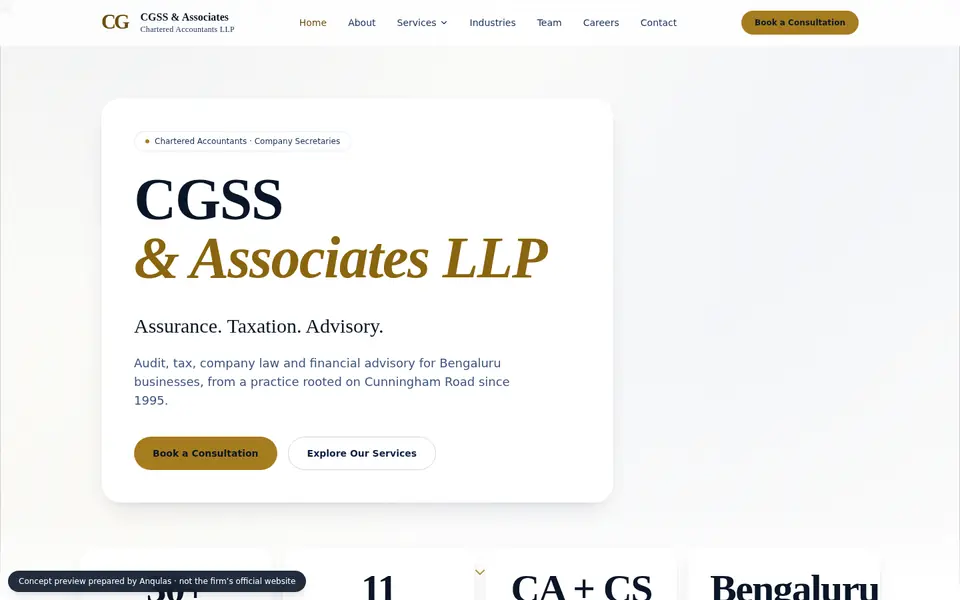
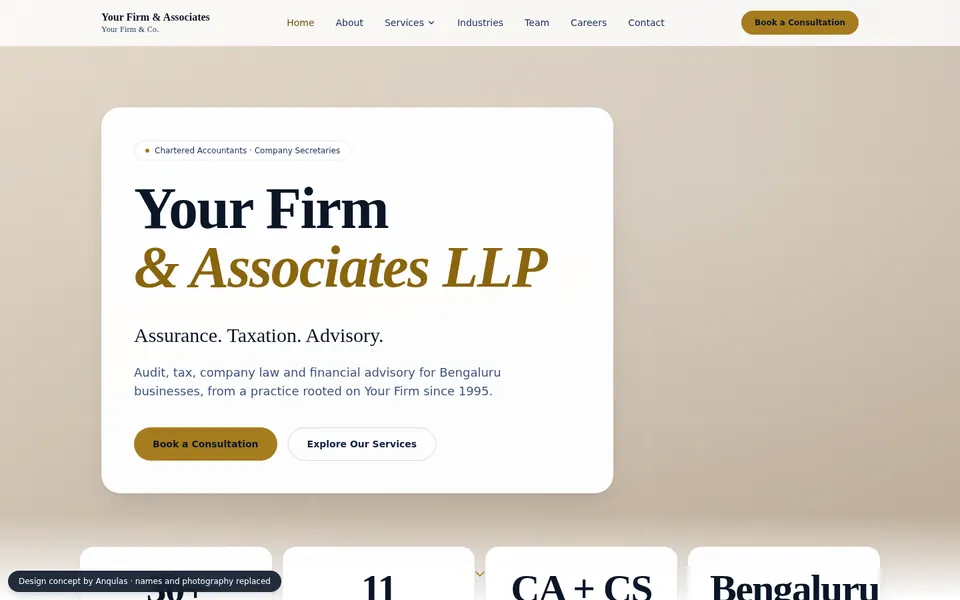
Homepage: anonymise the work and replace black with olive and sand
Work screenshots are re-rendered from the concept builds with every
business name, principal name, registration number and logo replaced
('Your Studio', 'Your Firm & Co.') and every photograph swapped for a
tonal fill, so the page shows our design without anyone's name or
photography. The index loses its arrows and the 'View' cursor, so
nothing reads as a link to a private concept, and the note says the
studies are anonymised and unaffiliated.

The black bands become deep olive (hero, Business OS) and warm sand
(services, contact and footer).

Claude-Session: https://claude.ai/code/session_01VmtMMQpYWdS14UnoZi6gCH

diff --git a/index.html b/index.html
@@ -12,7 +12,7 @@
 <meta property="og:description" content="Websites for architecture and interior design studios and professional firms. 24 built across ten countries.">
 <meta property="og:image" content="https://anqulas.com/assets/work/studio-deia.webp">
 <meta name="twitter:card" content="summary_large_image">
-<meta name="theme-color" content="#12110F">
+<meta name="theme-color" content="#1E2923">
 <link rel="icon" href="/assets/favicon-64.png" type="image/png">
 <link rel="apple-touch-icon" href="/assets/apple-touch-icon.png">
 <link rel="preconnect" href="https://fonts.googleapis.com">
@@ -20,14 +20,14 @@
 <link rel="stylesheet" href="https://fonts.googleapis.com/css2?family=Cormorant+Garamond:ital,wght@0,300;0,400;0,500;1,300;1,400&family=Manrope:wght@400;500;600&family=DM+Mono:wght@400&display=swap" media="print" onload="this.media='all';this.onload=null">
 <noscript><link rel="stylesheet" href="https://fonts.googleapis.com/css2?family=Cormorant+Garamond:ital,wght@0,300;0,400;0,500;1,300;1,400&family=Manrope:wght@400;500;600&family=DM+Mono:wght@400&display=swap"></noscript>
 <style>
-  /* Two grounds, one accent. Warm charcoal and bone carry everything; the
-     accent is bronze, light on dark and deep on paper (5.6:1 on bone). */
+  /* Grounds: bone, warm sand, and a deep olive for the two dark bands.
+     The accent is bronze, light on olive and deep on the light grounds. */
   :root{
-    --ink:#12110F; --ink-2:#1A1916; --ink-3:#25231F;
+    --ink:#1E2923; --ink-2:#233029; --ink-3:#2D3B33;
     --paper:#EEEAE2; --paper-2:#E3DED3; --white:#FBFAF7;
     --t1:#0D0D0C; --t2:#4A4843; --t3:#77736B;
-    --d1:#F2EFE8; --d2:#B4B0A6; --d3:#85817A;
-    --line:rgba(18,17,15,.12); --dline:rgba(242,239,232,.14);
+    --d1:#F1EDE4; --d2:#BDC1B6; --d3:#97A096;
+    --line:rgba(30,41,35,.12); --dline:rgba(242,239,232,.14);
     --aqua:#CDAE7E; --teal:#7A5A2E;
     --serif:"Cormorant Garamond","Cormorant",Garamond,"Times New Roman",serif;
     --sans:"Manrope",-apple-system,BlinkMacSystemFont,"Segoe UI",Helvetica,Arial,sans-serif;
@@ -68,7 +68,7 @@
   .nav{position:fixed;left:0;right:0;top:0;z-index:100;display:flex;align-items:center;gap:24px;padding:22px var(--gut);color:var(--d1);transition:transform .6s var(--ease),color .4s}
   .nav.hide{transform:translateY(-110%)}
   .nav.on-paper{color:var(--t1)}
-  .nav::before{content:"";position:absolute;inset:0;z-index:-1;opacity:0;transition:opacity .4s;background:linear-gradient(180deg,rgba(18,17,15,.55),transparent)}
+  .nav::before{content:"";position:absolute;inset:0;z-index:-1;opacity:0;transition:opacity .4s;background:linear-gradient(180deg,rgba(30,41,35,.55),transparent)}
   .nav.scrolled:not(.on-paper)::before{opacity:1}
   .brand{display:flex;align-items:center;gap:12px;font-family:var(--sans);font-weight:600;font-size:17px;letter-spacing:-.02em}
   .brand img{width:30px;height:30px;object-fit:contain;transition:transform .8s var(--ease)}
@@ -99,9 +99,9 @@
   .col img{border-radius:8px;width:100%;aspect-ratio:16/10;object-fit:cover;object-position:top;filter:saturate(.9)}
   @keyframes up{to{transform:translateY(-50%)}}
   .hero::before{content:"";position:absolute;inset:0;z-index:1;background:
-    linear-gradient(90deg,var(--ink) 0%,var(--ink) 30%,rgba(18,17,15,.86) 46%,rgba(18,17,15,.25) 75%,rgba(18,17,15,.45) 100%),
-    linear-gradient(0deg,var(--ink) 0%,rgba(18,17,15,0) 38%)}
-  @media(max-width:900px){.cols{inset:-10% -40% 30% -20%;opacity:.5}.hero::before{background:linear-gradient(0deg,var(--ink) 0%,var(--ink) 40%,rgba(18,17,15,.55) 100%)}}
+    linear-gradient(90deg,var(--ink) 0%,var(--ink) 30%,rgba(30,41,35,.86) 46%,rgba(30,41,35,.25) 75%,rgba(30,41,35,.45) 100%),
+    linear-gradient(0deg,var(--ink) 0%,rgba(30,41,35,0) 38%)}
+  @media(max-width:900px){.cols{inset:-10% -40% 30% -20%;opacity:.5}.hero::before{background:linear-gradient(0deg,var(--ink) 0%,var(--ink) 40%,rgba(30,41,35,.55) 100%)}}
   .hero-in{position:relative;z-index:2}
   .hero h1{font-family:var(--serif);font-size:clamp(64px,11.5vw,188px);line-height:.86;letter-spacing:-.035em;max-width:11ch}
   .hero h1 .it{color:var(--aqua)}
@@ -125,7 +125,7 @@
   .statement{padding:clamp(110px,16vw,220px) 0}
   .statement .label{color:var(--t3)}
   .statement p.big{margin-top:36px;font-family:var(--serif);font-size:clamp(34px,4.6vw,72px);line-height:1.06;letter-spacing:-.02em;max-width:20ch}
-  .statement .big .wd{color:rgba(18,17,15,.16);transition:color .5s}
+  .statement .big .wd{color:rgba(30,41,35,.16);transition:color .5s}
   .statement .big .wd.lit{color:var(--t1)}
   .statement .big .it.wd.lit{color:var(--teal)}
   .stmt-grid{display:grid;grid-template-columns:1fr 2.2fr;gap:40px}
@@ -160,7 +160,7 @@
   /* ── index: every site, with a preview that follows the cursor ── */
   .index{margin-top:clamp(80px,10vw,140px)}
   .index ol{list-style:none;margin:28px 0 0;padding:0;border-top:1px solid var(--line)}
-  .row{position:relative;display:grid;grid-template-columns:70px 1.6fr 1fr 1fr 32px;gap:20px;align-items:center;padding:24px 0;border-bottom:1px solid var(--line);transition:color .3s,padding .5s var(--ease)}
+  .row{position:relative;display:grid;grid-template-columns:70px 1.6fr 1fr 1fr;gap:20px;align-items:center;padding:24px 0;border-bottom:1px solid var(--line);transition:color .3s,padding .5s var(--ease)}
   .row .label{color:var(--t3)}
   .row .nm{font-family:var(--serif);font-size:clamp(26px,2.6vw,40px);line-height:1;letter-spacing:-.02em}
   .row .sm{color:var(--t2);font-size:15px}
@@ -387,6 +387,19 @@
   /* Lining figures: Cormorant defaults to old-style numerals. */
   .nums b,.tier .amt,.row .label,.label{font-variant-numeric:lining-nums tabular-nums;font-feature-settings:"lnum" 1,"tnum" 1}
   body{letter-spacing:0}
+  /* Sand: a warm light ground. It re-points the dark-ground tokens, so the
+     same components read dark-on-sand without restyling each one. */
+  .sand{background:linear-gradient(180deg,#E7DECF 0%,#DFD3C0 100%);color:#1E2923;
+    --d1:#1E2923; --d2:#4B4A40; --d3:#5F5A4D; --dline:rgba(30,41,35,.16); --aqua:#7A5A2E}
+  .sand .btn-light{background:#1E2923;color:#F1EDE4}
+  .sand .btn-light:hover{background:#7A5A2E;color:#F7F3EC}
+  .sand .svc-side .pill{color:#1E2923}
+  .sand .svc-side .pill:hover{background:#1E2923;color:#F1EDE4}
+  .sand details[open] .plus{background:#1E2923;color:#F1EDE4}
+  .sand .fld input::placeholder,.sand .fld textarea::placeholder{color:#7E7768}
+  .sand .msg.ok{background:#DCEBDD;color:#24452B}
+  .sand .msg.warn{background:#F3E2C3;color:#5C3F10}
+  .sand :focus-visible{outline-color:#7A5A2E}
 </style>
 </head>
 <body>
@@ -452,34 +465,34 @@
       <span class="label">(02) 2026 · 24 concept sites</span>
     </div>
     <div class="feature">
-      <figure class="f f1" data-cursor="view"><div class="frame"><img class="par" src="/assets/work/studio-deia.webp" width="960" height="600" loading="lazy" alt="Concept website for an architecture and interior design studio in Mumbai"></div><figcaption><span class="label">01</span><b>Architecture + interiors</b><span>Mumbai</span></figcaption></figure>
-      <figure class="f f2" data-cursor="view"><div class="frame"><img class="par" src="/assets/work/altu.webp" width="960" height="600" loading="lazy" alt="Concept website for an architecture and scenography studio in Antwerp"></div><figcaption><span class="label">02</span><b>Scenography</b><span>Antwerp</span></figcaption></figure>
-      <figure class="f f3" data-cursor="view"><div class="frame"><img class="par" src="/assets/work/paul-j-davies.webp" width="960" height="600" loading="lazy" alt="Concept website for a lighting design and control specialist in Dubai"></div><figcaption><span class="label">03</span><b>Lighting design</b><span>Dubai</span></figcaption></figure>
-      <figure class="f f4" data-cursor="view"><div class="frame"><img class="par" src="/assets/work/archipoint.webp" width="960" height="600" loading="lazy" alt="Concept website for an architecture and urban design practice in Surat"></div><figcaption><span class="label">04</span><b>Architecture &amp; urban design</b><span>Surat</span></figcaption></figure>
+      <figure class="f f1"><div class="frame"><img class="par" src="/assets/work/studio-deia.webp" width="960" height="600" loading="lazy" alt="Concept website for an architecture and interior design studio in Mumbai"></div><figcaption><span class="label">01</span><b>Architecture + interiors</b><span>Mumbai</span></figcaption></figure>
+      <figure class="f f2"><div class="frame"><img class="par" src="/assets/work/altu.webp" width="960" height="600" loading="lazy" alt="Concept website for an architecture and scenography studio in Antwerp"></div><figcaption><span class="label">02</span><b>Scenography</b><span>Antwerp</span></figcaption></figure>
+      <figure class="f f3"><div class="frame"><img class="par" src="/assets/work/paul-j-davies.webp" width="960" height="600" loading="lazy" alt="Concept website for a lighting design and control specialist in Dubai"></div><figcaption><span class="label">03</span><b>Lighting design</b><span>Dubai</span></figcaption></figure>
+      <figure class="f f4"><div class="frame"><img class="par" src="/assets/work/archipoint.webp" width="960" height="600" loading="lazy" alt="Concept website for an architecture and urban design practice in Surat"></div><figcaption><span class="label">04</span><b>Architecture &amp; urban design</b><span>Surat</span></figcaption></figure>
     </div>
 
     <div class="index">
       <div class="sec-head" style="padding-bottom:18px"><span class="label">Index</span><span class="label">Discipline · City</span></div>
       <ol id="index">
-        <li class="row" data-img="/assets/work/studio-deia.webp"><span class="label">01</span><span class="nm">Architecture + interiors</span><span class="sm">Residential &amp; workplace</span><span class="sm">Mumbai</span><span class="arw" aria-hidden="true">→</span><span class="thumb"><img src="/assets/work/studio-deia.webp" alt="" width="960" height="600" loading="lazy"></span></li>
-        <li class="row" data-img="/assets/work/altu.webp"><span class="label">02</span><span class="nm">Architecture &amp; scenography</span><span class="sm">Exhibitions &amp; interiors</span><span class="sm">Antwerp</span><span class="arw" aria-hidden="true">→</span><span class="thumb"><img src="/assets/work/altu.webp" alt="" width="960" height="600" loading="lazy"></span></li>
-        <li class="row" data-img="/assets/work/paul-j-davies.webp"><span class="label">03</span><span class="nm">Lighting design &amp; control</span><span class="sm">Architectural lighting</span><span class="sm">Dubai</span><span class="arw" aria-hidden="true">→</span><span class="thumb"><img src="/assets/work/paul-j-davies.webp" alt="" width="960" height="600" loading="lazy"></span></li>
-        <li class="row" data-img="/assets/work/archipoint.webp"><span class="label">04</span><span class="nm">Architecture &amp; urban design</span><span class="sm">Since 1995</span><span class="sm">Surat</span><span class="arw" aria-hidden="true">→</span><span class="thumb"><img src="/assets/work/archipoint.webp" alt="" width="960" height="600" loading="lazy"></span></li>
-        <li class="row" data-img="/assets/work/nsad-studio.webp"><span class="label">05</span><span class="nm">Architecture + interiors</span><span class="sm">Avant-garde residential</span><span class="sm">Ahmedabad</span><span class="arw" aria-hidden="true">→</span><span class="thumb"><img src="/assets/work/nsad-studio.webp" alt="" width="960" height="600" loading="lazy"></span></li>
-        <li class="row" data-img="/assets/work/kreativa.webp"><span class="label">06</span><span class="nm">Interiors &amp; bespoke furniture</span><span class="sm">Bilingual, PT/EN</span><span class="sm">Madeira</span><span class="arw" aria-hidden="true">→</span><span class="thumb"><img src="/assets/work/kreativa.webp" alt="" width="960" height="600" loading="lazy"></span></li>
-        <li class="row" data-img="/assets/work/cs-interiors.webp"><span class="label">07</span><span class="nm">Fit-out, design &amp; build</span><span class="sm">Contractor</span><span class="sm">Dubai</span><span class="arw" aria-hidden="true">→</span><span class="thumb"><img src="/assets/work/cs-interiors.webp" alt="" width="960" height="600" loading="lazy"></span></li>
-        <li class="row" data-img="/assets/work/ozt-studio.webp"><span class="label">08</span><span class="nm">Architecture &amp; interiors</span><span class="sm">Two cities</span><span class="sm">Surat &amp; Mumbai</span><span class="arw" aria-hidden="true">→</span><span class="thumb"><img src="/assets/work/ozt-studio.webp" alt="" width="960" height="600" loading="lazy"></span></li>
-        <li class="row" data-img="/assets/work/nova-home-design.webp"><span class="label">09</span><span class="nm">Home staging &amp; rentals</span><span class="sm">Furnished homes</span><span class="sm">Dubai</span><span class="arw" aria-hidden="true">→</span><span class="thumb"><img src="/assets/work/nova-home-design.webp" alt="" width="960" height="600" loading="lazy"></span></li>
-        <li class="row" data-img="/assets/work/ashit.webp"><span class="label">10</span><span class="nm">Chartered accountants</span><span class="sm">Audit &amp; tax litigation</span><span class="sm">Ahmedabad</span><span class="arw" aria-hidden="true">→</span><span class="thumb"><img src="/assets/work/ashit.webp" alt="" width="960" height="600" loading="lazy"></span></li>
-        <li class="row" data-img="/assets/work/dhrumil.webp"><span class="label">11</span><span class="nm">Chartered accountants</span><span class="sm">Market &amp; IT audits</span><span class="sm">Ahmedabad</span><span class="arw" aria-hidden="true">→</span><span class="thumb"><img src="/assets/work/dhrumil.webp" alt="" width="960" height="600" loading="lazy"></span></li>
-        <li class="row" data-img="/assets/work/cgss.webp"><span class="label">12</span><span class="nm">Chartered accountants</span><span class="sm">Audit, tax &amp; advisory</span><span class="sm">Bengaluru</span><span class="arw" aria-hidden="true">→</span><span class="thumb"><img src="/assets/work/cgss.webp" alt="" width="960" height="600" loading="lazy"></span></li>
+        <li class="row" data-img="/assets/work/studio-deia.webp"><span class="label">01</span><span class="nm">Architecture + interiors</span><span class="sm">Residential &amp; workplace</span><span class="sm">Mumbai</span><span class="thumb"><img src="/assets/work/studio-deia.webp" alt="" width="960" height="600" loading="lazy"></span></li>
+        <li class="row" data-img="/assets/work/altu.webp"><span class="label">02</span><span class="nm">Architecture &amp; scenography</span><span class="sm">Exhibitions &amp; interiors</span><span class="sm">Antwerp</span><span class="thumb"><img src="/assets/work/altu.webp" alt="" width="960" height="600" loading="lazy"></span></li>
+        <li class="row" data-img="/assets/work/paul-j-davies.webp"><span class="label">03</span><span class="nm">Lighting design &amp; control</span><span class="sm">Architectural lighting</span><span class="sm">Dubai</span><span class="thumb"><img src="/assets/work/paul-j-davies.webp" alt="" width="960" height="600" loading="lazy"></span></li>
+        <li class="row" data-img="/assets/work/archipoint.webp"><span class="label">04</span><span class="nm">Architecture &amp; urban design</span><span class="sm">Practice &amp; planning</span><span class="sm">Surat</span><span class="thumb"><img src="/assets/work/archipoint.webp" alt="" width="960" height="600" loading="lazy"></span></li>
+        <li class="row" data-img="/assets/work/nsad-studio.webp"><span class="label">05</span><span class="nm">Architecture + interiors</span><span class="sm">Avant-garde residential</span><span class="sm">Ahmedabad</span><span class="thumb"><img src="/assets/work/nsad-studio.webp" alt="" width="960" height="600" loading="lazy"></span></li>
+        <li class="row" data-img="/assets/work/kreativa.webp"><span class="label">06</span><span class="nm">Interiors &amp; bespoke furniture</span><span class="sm">Bilingual, PT/EN</span><span class="sm">Madeira</span><span class="thumb"><img src="/assets/work/kreativa.webp" alt="" width="960" height="600" loading="lazy"></span></li>
+        <li class="row" data-img="/assets/work/cs-interiors.webp"><span class="label">07</span><span class="nm">Fit-out, design &amp; build</span><span class="sm">Contractor</span><span class="sm">Dubai</span><span class="thumb"><img src="/assets/work/cs-interiors.webp" alt="" width="960" height="600" loading="lazy"></span></li>
+        <li class="row" data-img="/assets/work/ozt-studio.webp"><span class="label">08</span><span class="nm">Architecture &amp; interiors</span><span class="sm">Two cities</span><span class="sm">Surat &amp; Mumbai</span><span class="thumb"><img src="/assets/work/ozt-studio.webp" alt="" width="960" height="600" loading="lazy"></span></li>
+        <li class="row" data-img="/assets/work/nova-home-design.webp"><span class="label">09</span><span class="nm">Home staging &amp; rentals</span><span class="sm">Furnished homes</span><span class="sm">Dubai</span><span class="thumb"><img src="/assets/work/nova-home-design.webp" alt="" width="960" height="600" loading="lazy"></span></li>
+        <li class="row" data-img="/assets/work/ashit.webp"><span class="label">10</span><span class="nm">Chartered accountants</span><span class="sm">Audit &amp; tax litigation</span><span class="sm">Ahmedabad</span><span class="thumb"><img src="/assets/work/ashit.webp" alt="" width="960" height="600" loading="lazy"></span></li>
+        <li class="row" data-img="/assets/work/dhrumil.webp"><span class="label">11</span><span class="nm">Chartered accountants</span><span class="sm">Market &amp; IT audits</span><span class="sm">Ahmedabad</span><span class="thumb"><img src="/assets/work/dhrumil.webp" alt="" width="960" height="600" loading="lazy"></span></li>
+        <li class="row" data-img="/assets/work/cgss.webp"><span class="label">12</span><span class="nm">Chartered accountants</span><span class="sm">Audit, tax &amp; advisory</span><span class="sm">Bengaluru</span><span class="thumb"><img src="/assets/work/cgss.webp" alt="" width="960" height="600" loading="lazy"></span></li>
       </ol>
-      <p class="note">Twelve of 24 concept websites for studios and firms in India, the UK, the US, the UAE, Europe, Singapore, Australia and the Caribbean. Each is an unsolicited concept, labelled as such on the site and not affiliated with the business it was designed for. Live walkthroughs on request.</p>
+      <p class="note">Twelve of 24 concept websites for studios and firms in India, the UK, the US, the UAE, Europe, Singapore, Australia and the Caribbean. Shown here as design studies: business names and photography are replaced, and no concept is affiliated with or endorsed by the business it was made for. Walkthroughs on request.</p>
     </div>
   </div>
 </section>
 
-<section class="services dark" id="services">
+<section class="services sand" id="services">
   <div class="pad">
     <div class="sec-head">
       <h2 class="rl"><span class="line"><span>What we</span></span><span class="line"><span class="it">do</span></span></h2>
@@ -605,7 +618,7 @@
   </div>
 </section>
 
-<section class="contact dark" id="contact">
+<section class="contact sand" id="contact">
   <div class="pad">
     <span class="label" style="color:var(--d3)">(06) Contact</span>
     <h2 class="big rl" style="margin-top:28px"><span class="line"><span>Let’s make</span></span><span class="line"><span class="it">something good.</span></span></h2>
@@ -773,8 +786,8 @@
     $$(".row").forEach((row) => {
       const src = row.dataset.img;
       if (!imgs[src]) { const im = new Image(); im.src = src; im.alt = ""; peek.append(im); imgs[src] = im; }
-      row.addEventListener("pointerenter", () => { Object.values(imgs).forEach((i) => i.classList.toggle("on", i === imgs[src])); peek.classList.add("on"); cur.classList.add("view"); });
-      row.addEventListener("pointerleave", () => { peek.classList.remove("on"); cur.classList.remove("view"); });
+      row.addEventListener("pointerenter", () => { Object.values(imgs).forEach((i) => i.classList.toggle("on", i === imgs[src])); peek.classList.add("on"); });
+      row.addEventListener("pointerleave", () => { peek.classList.remove("on"); });
     });
     let px = 0, lastX = 0;
     addEventListener("pointermove", (e) => {
